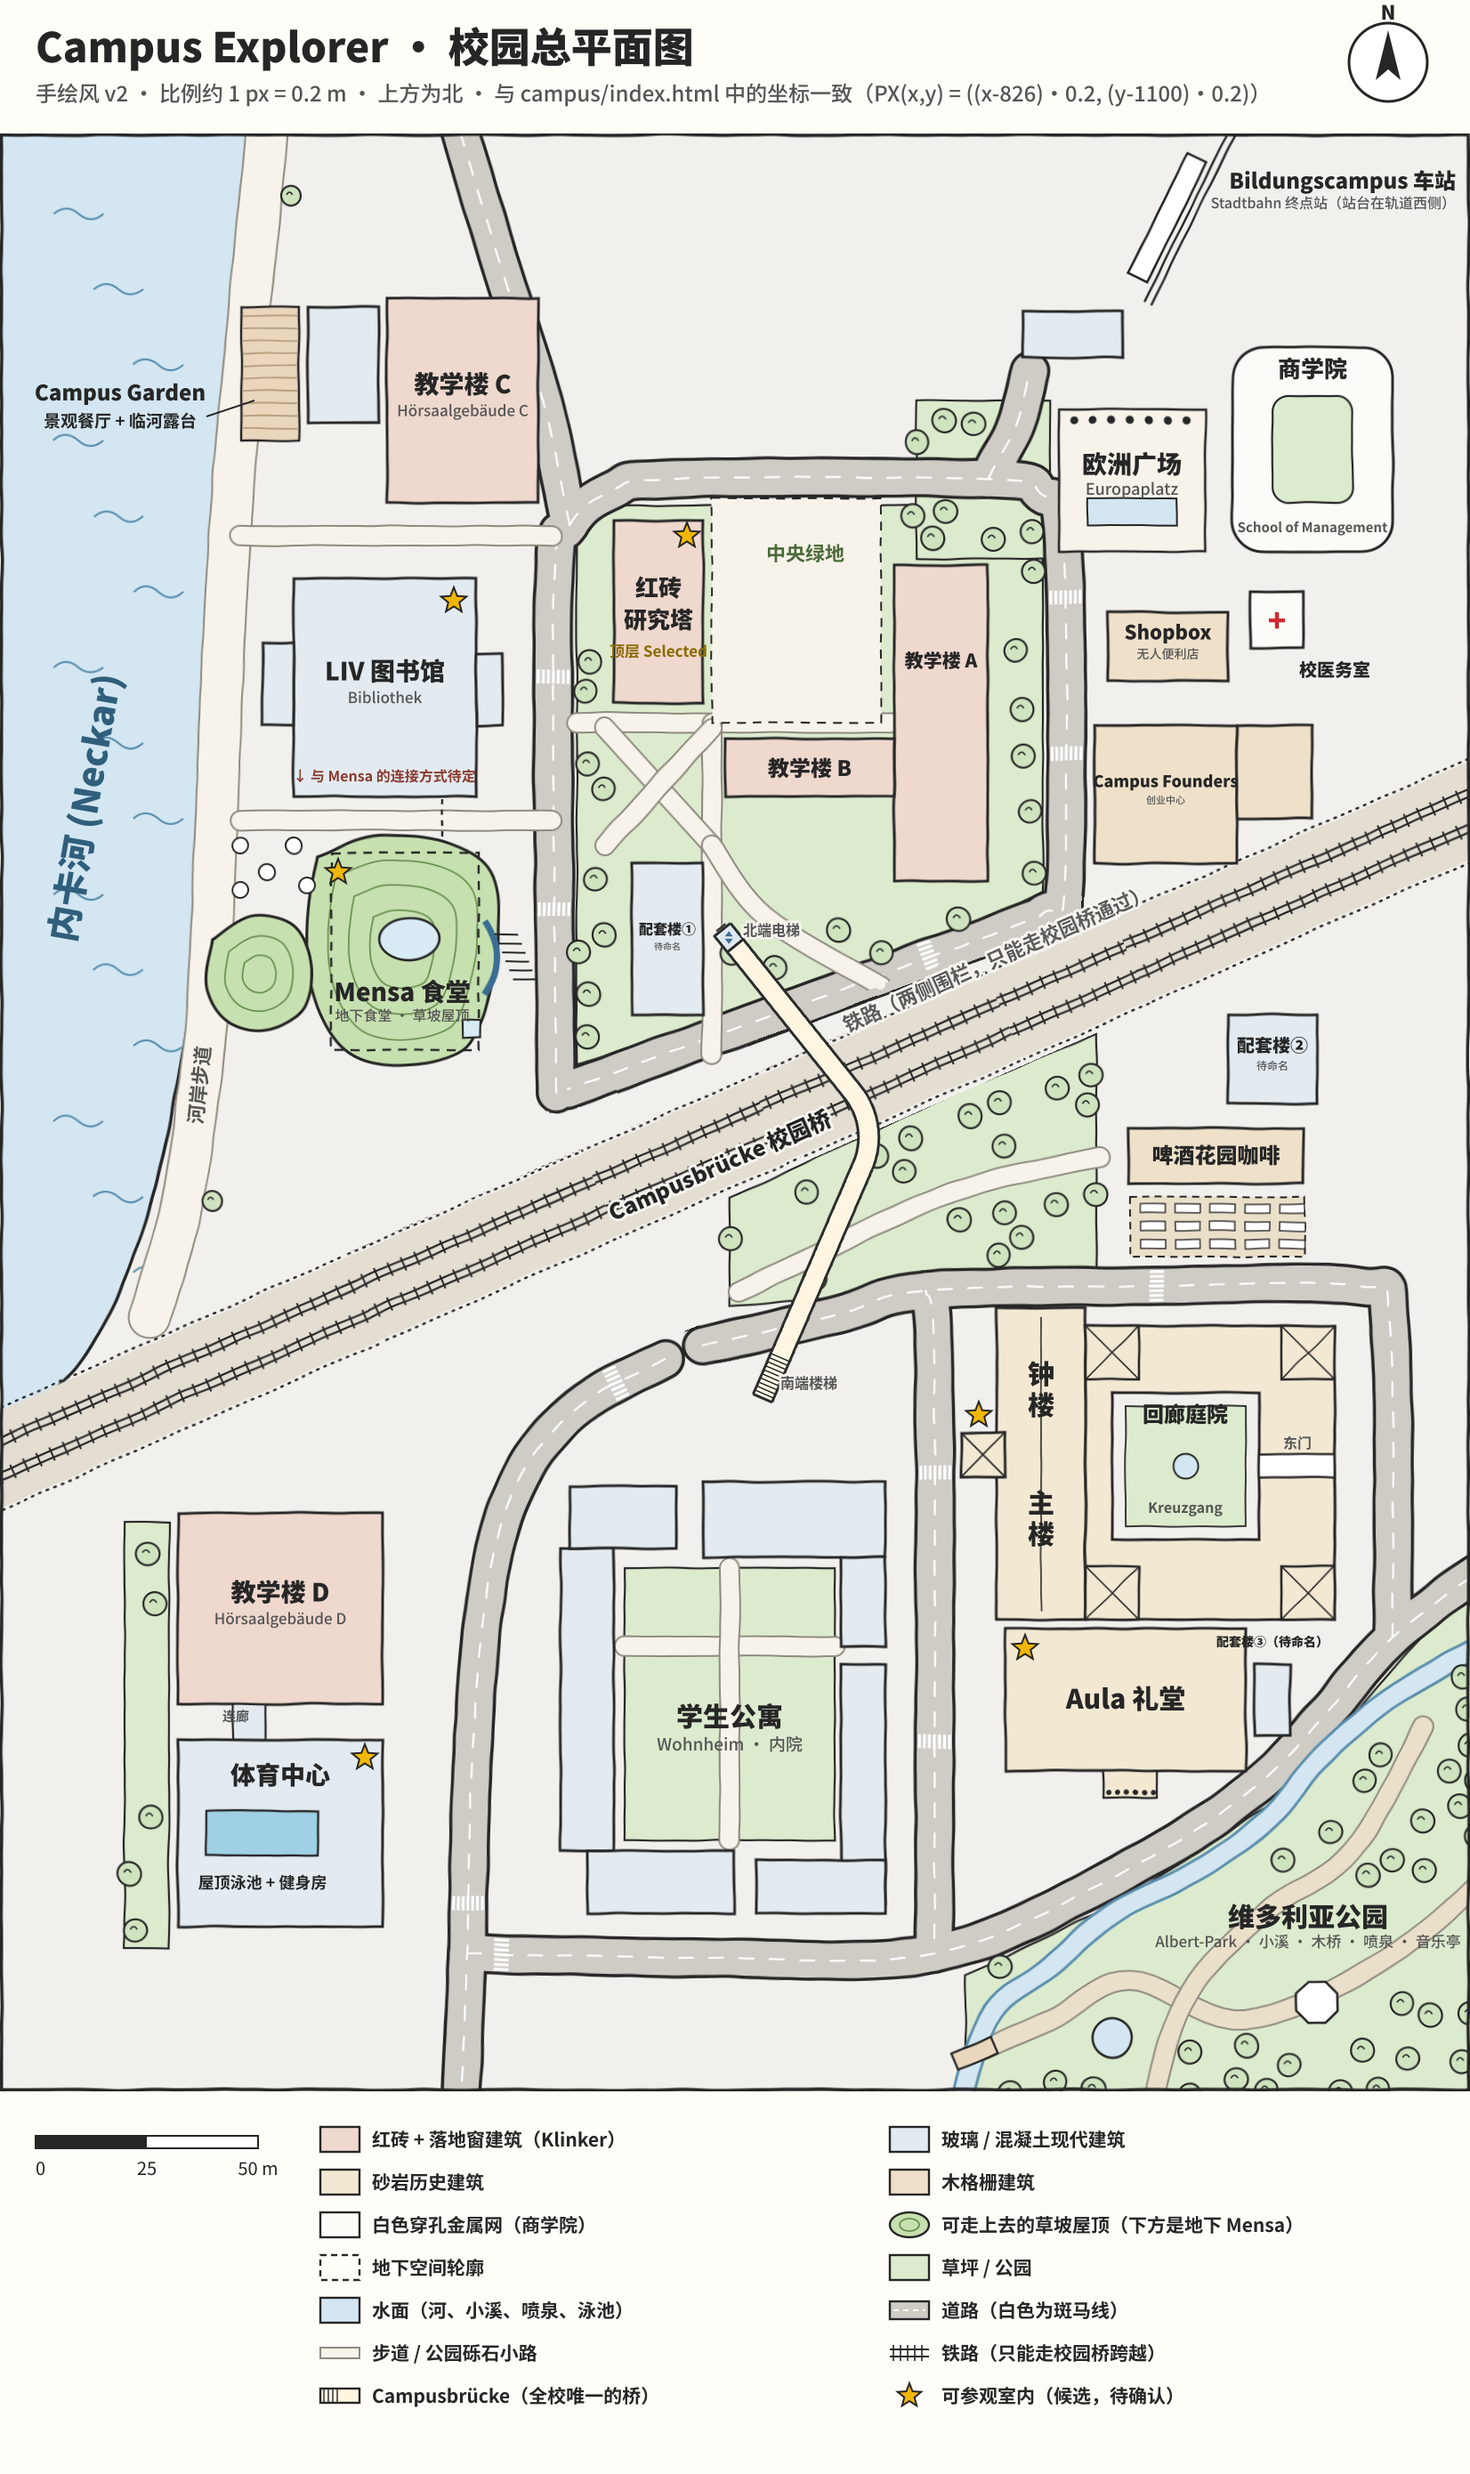
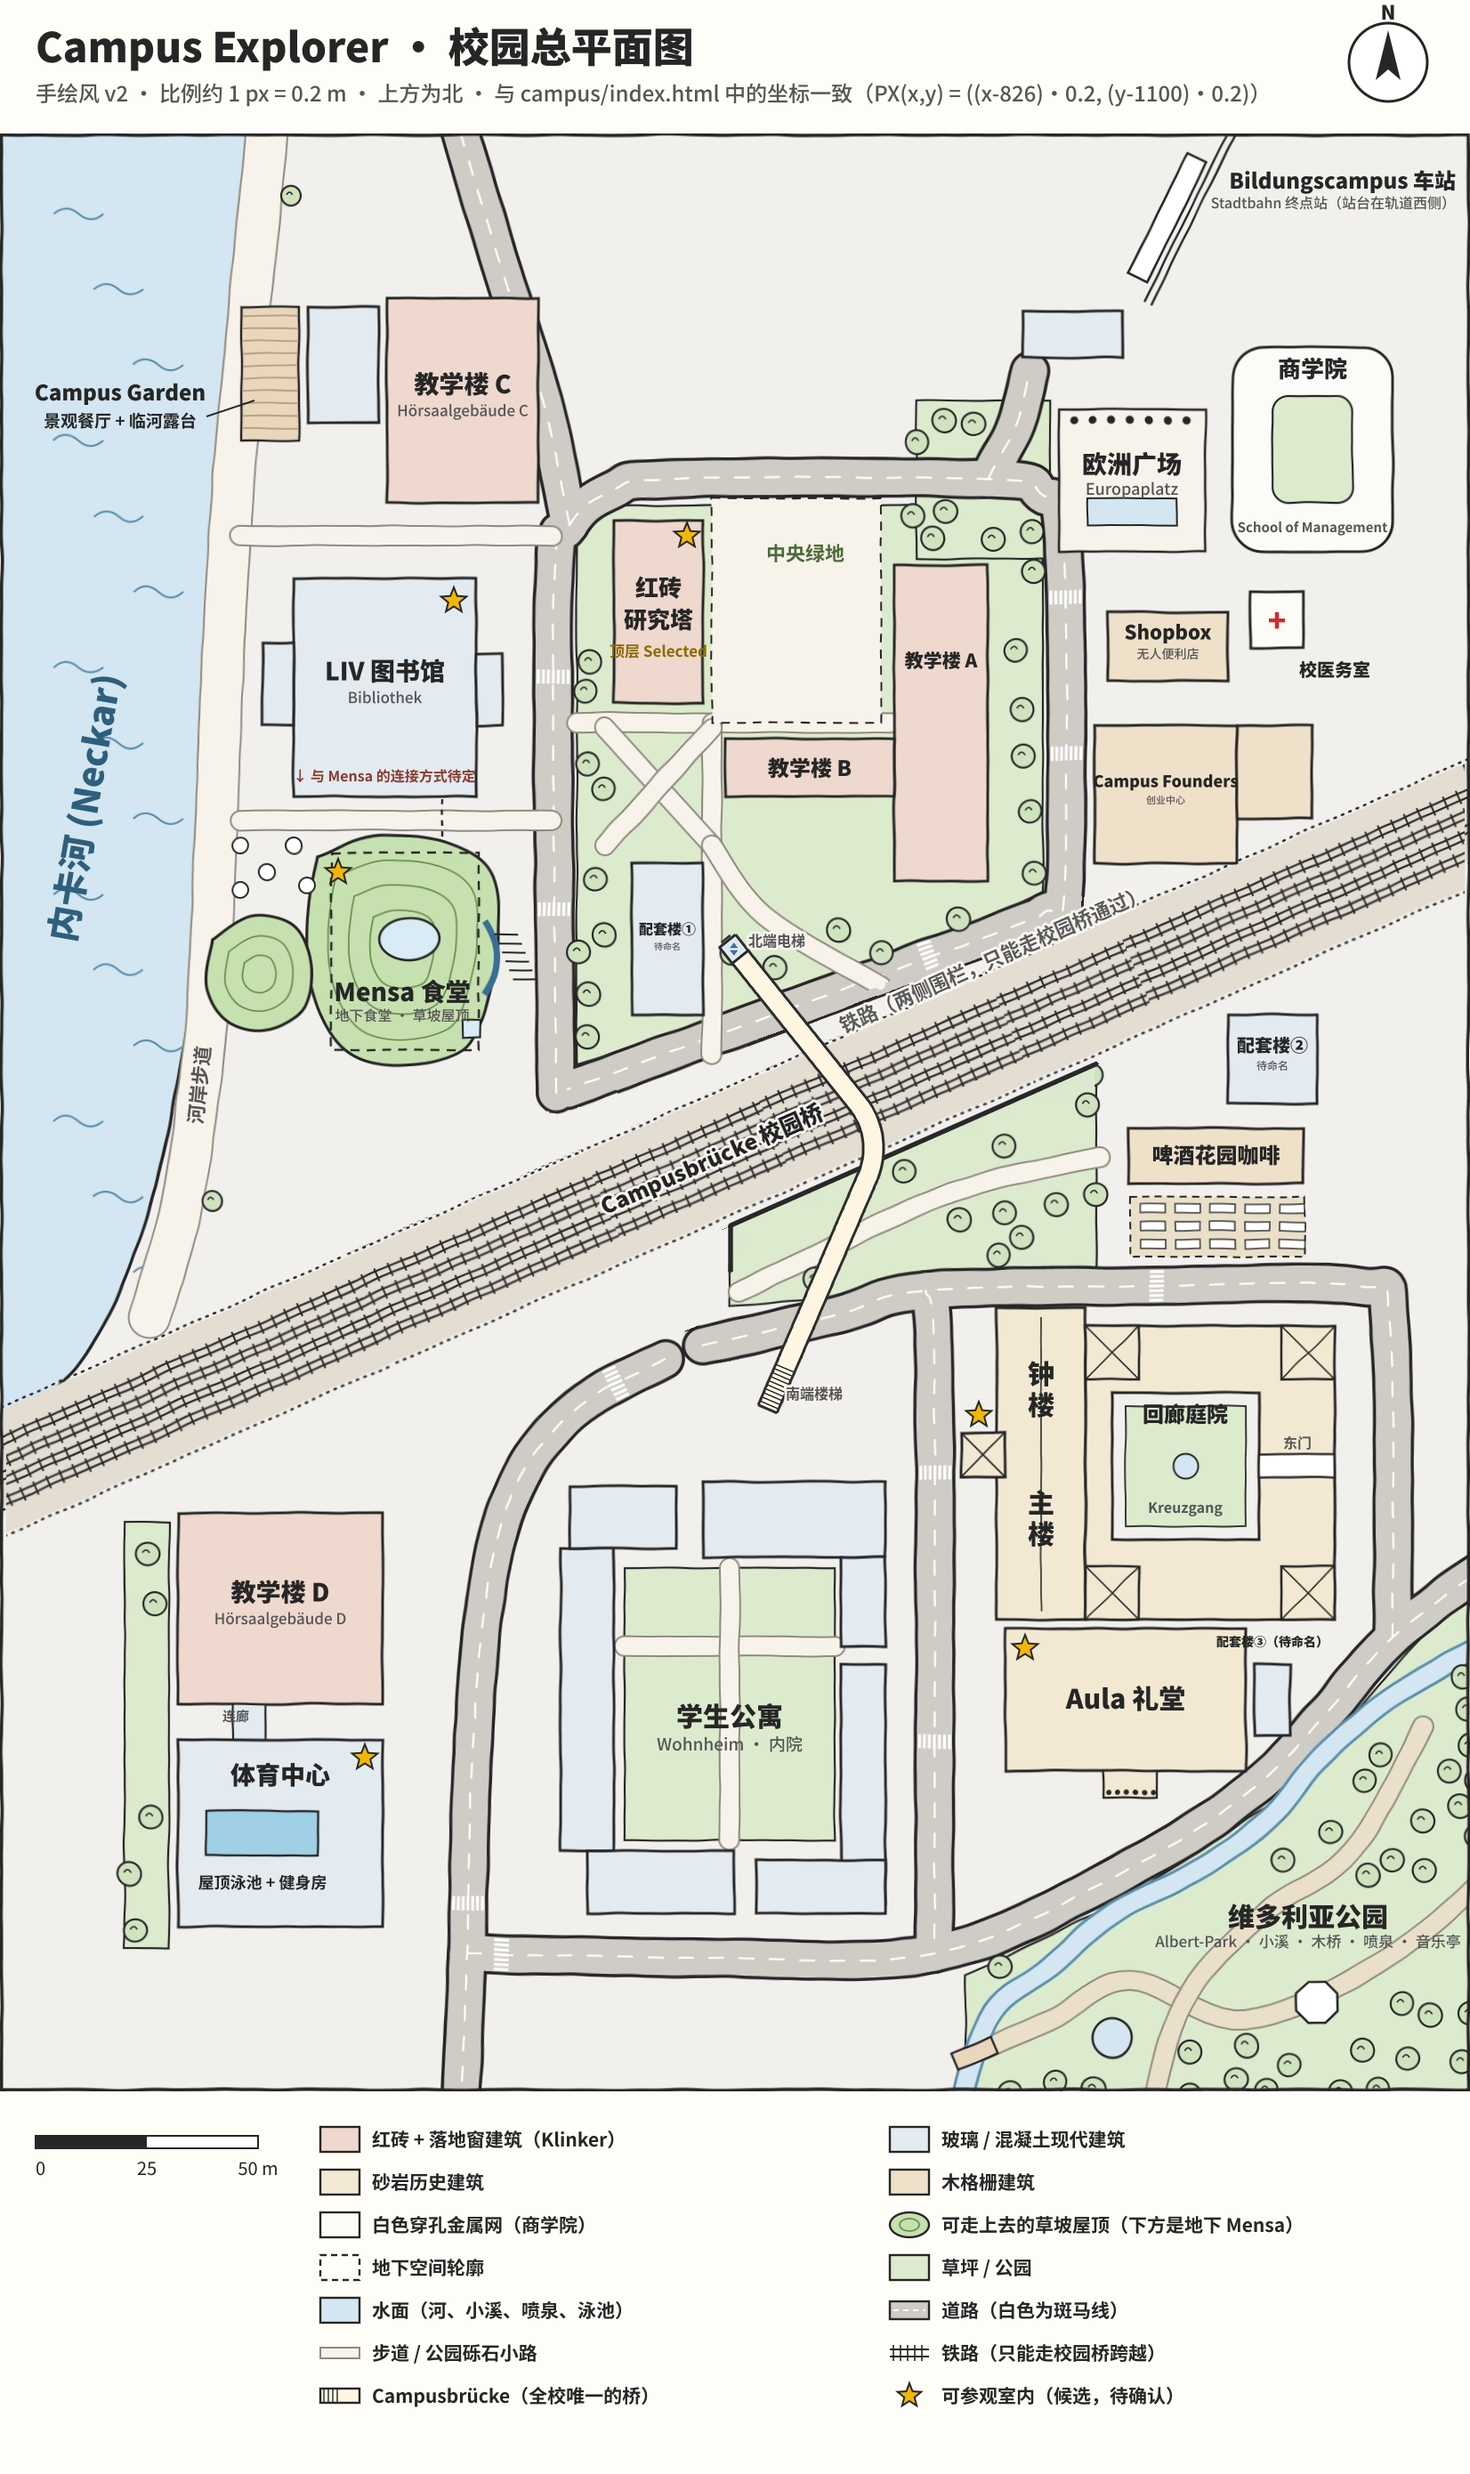
Railway: four tracks, smaller south lawn; bridge scaled by track spacing
- Railway widened from two to four tracks (4.25 m apart); the corridor grows
  5.6 m to the south, the north fence stays put. Catenary, sleepers,
  ballast, fences, collider and the Neckar rail bridge follow.
- South lawn shrunk to make room.
- Campusbrücke now scaled by the real track spacing (27.5 px = 4.25 m), with
  the real six-track band centred on the game's rail: the game's four tracks
  are the middle four real ones, the curve sits over the southern tracks.
  Deck raised to 8.2 m to clear the catenary.
- Site plan: band redrawn with four tracks, lawn edge moved, cut trees removed.

Claude-Session: https://claude.ai/code/session_01RmbNUKkyaqYhf6VNBhVkDZ

Changed region(s): [[0.0, 0.3094, 1.0, 0.6187]]

diff --git a/README.md b/README.md
@@ -6,9 +6,9 @@
 
 一张可以放大、旋转、到处走的 3D 欧式城市校园地图，灵感来自 TUM Campus Heilbronn（Bildungscampus）、Bocconi Milano 和 University of Auckland。
 
-- **布局**：按手绘地图重建。Neckar 河在西侧，铁路斜穿校园，北区有环路和斑马线，东南角是 Albert-Park 和小溪
+- **布局**：按手绘地图重建。Neckar 河在西侧，四线铁路斜穿校园，北区有环路和斑马线，东南角是 Albert-Park 和小溪
 - **建筑**：Klinker 红砖柱和整面落地玻璃（Bildungscampus 风格），白色穿孔金属网的商学院，哥特复兴钟楼和回廊庭院，顶层泳池体育中心，红砖研究塔顶部是 Selected 精英项目专属楼层
-- **Campusbrücke**：全校唯一跨越铁路的人行桥，按 Google 地图上真实的 Heilbronn Campusbrücke 测量复刻：长度、弯道半径与转角、以及和铁轨的相对位置都按比例一致（以铁路宽度为比例尺）。北端是穿孔玻璃电梯塔（可以坐电梯上下），南端一段短楼梯
+- **Campusbrücke**：全校唯一跨越铁路的人行桥，按 Google 地图上真实的 Heilbronn Campusbrücke 测量复刻：长度、弯道半径与转角、以及和铁轨的相对位置都按比例一致（以 4.25 m 轨道间距为比例尺；铁路为四条轨道）。北端是穿孔玻璃电梯塔（可以坐电梯上下），南端一段短楼梯
 - **玩法**：WASD 或点地面移动（A* 自动寻路，过铁路会自动坐电梯走桥），碰到金色水晶领取 5 ECTS，一共 21 个地点、105 ECTS
 - **功能**：昼夜切换、高画质（GTAO 环境光遮蔽）和流畅模式、小地图、钟楼登顶看全景，钟面显示真实时间
 
